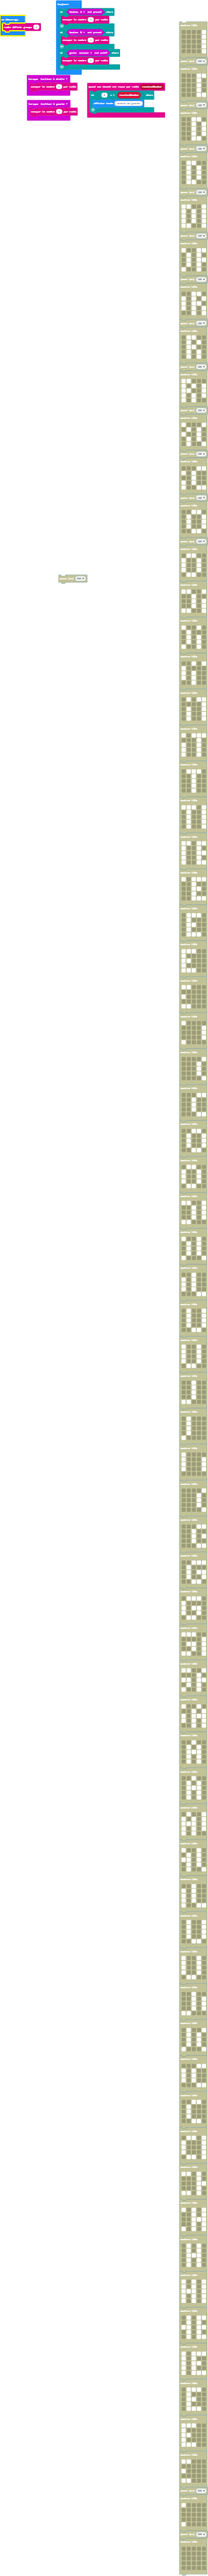
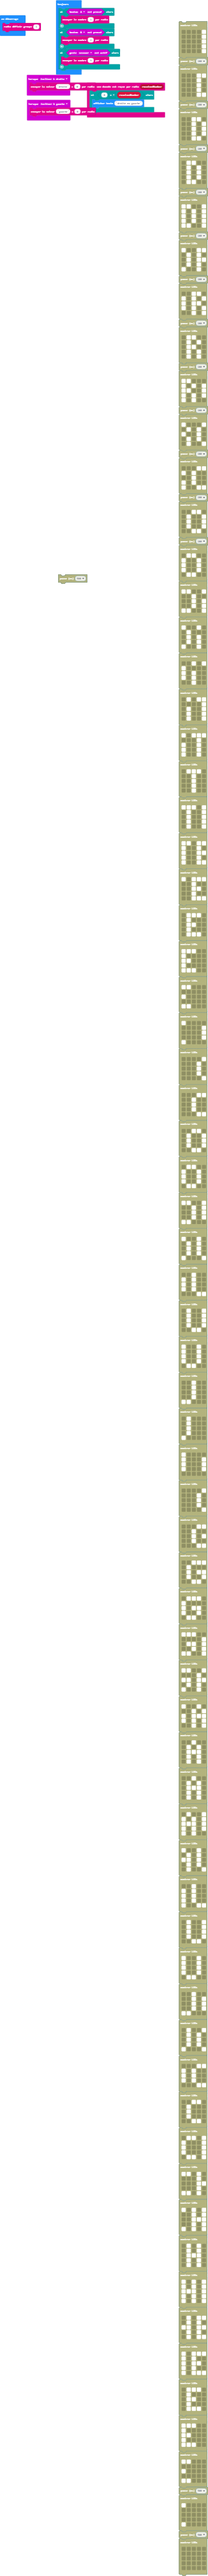
Mise à jour main.blocks, main.ts

diff --git a/main.ts b/main.ts
@@ -4,10 +4,10 @@ radio.onReceivedNumber(function (receivedNumber) {
     }
 })
 input.onGesture(Gesture.TiltRight, function () {
-    radio.sendNumber(4)
+    radio.sendValue("droite", 0)
 })
 input.onGesture(Gesture.TiltLeft, function () {
-    radio.sendNumber(5)
+    radio.sendValue("gauche", 0)
 })
 radio.setGroup(1)
 basic.forever(function () {
